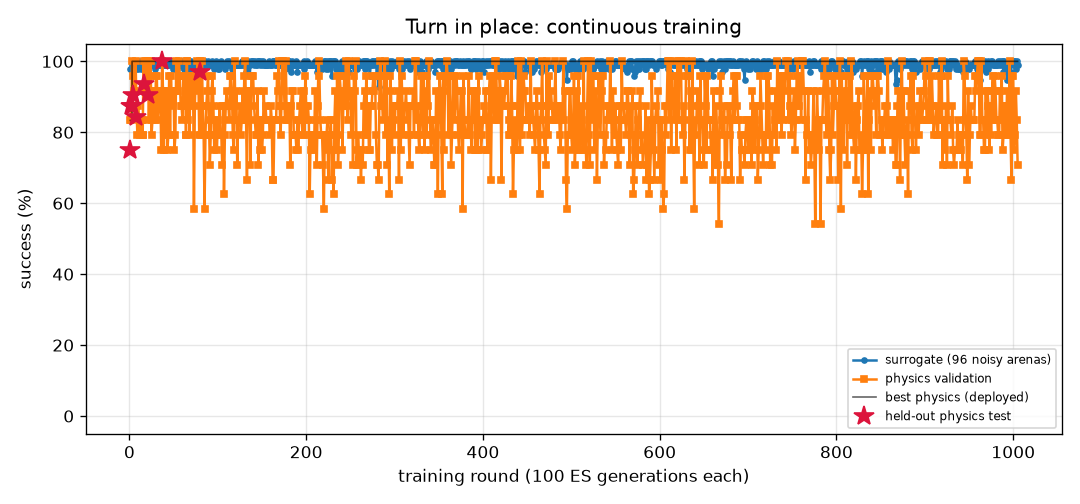
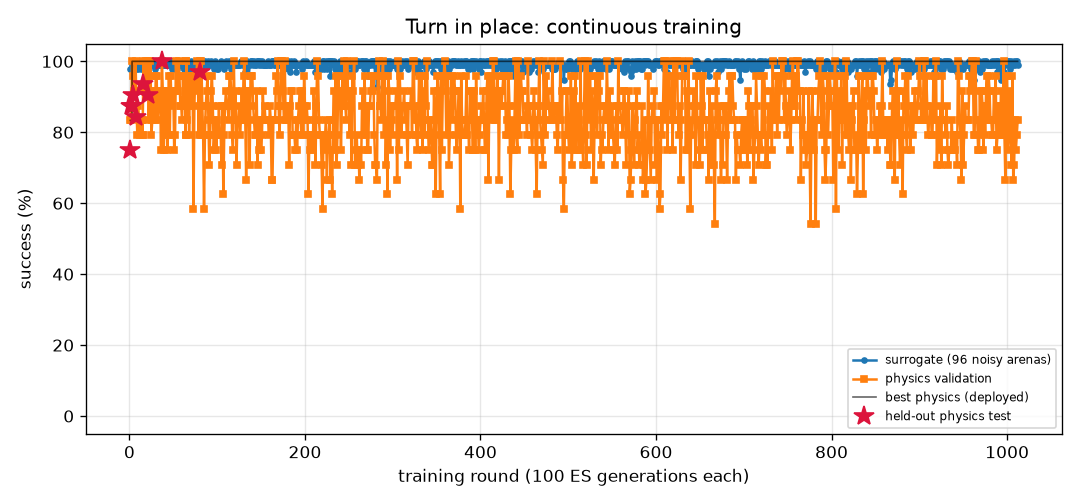
FlyLab: continuous training progress
- walk_forward: optimal, physics val 100% of 24, round 367
- turn: optimal, physics val 100% of 24, round 1012
- goto: optimal, physics val 100% of 24, round 287
- odor_seek: optimal, physics val 100% of 24, round 235
- odor_avoid: optimal, physics val 100% of 24, round 892
- light_seek: optimal, physics val 100% of 24, round 487
- light_avoid: optimal, physics val 100% of 24, round 620

diff --git a/projects/09_flylab/training/turn/REPORT.md b/projects/09_flylab/training/turn/REPORT.md
@@ -1,14 +1,14 @@
 # Turn in place (`turn`) — training report
 
-*Auto-generated by `train_brains.py`, last updated 2026-11-11T23:51:56.*
+*Auto-generated by `train_brains.py`, last updated 2026-11-12T19:09:57.*
 
 ![curve](curve.png)
 
 | | |
 |---|---|
-| rounds | 1005 |
-| ES generations | 100500 |
-| physics runs | 24366 |
+| rounds | 1012 |
+| ES generations | 101200 |
+| physics runs | 24534 |
 | status | **optimal** |
 | best brain | round 80: physics validation **100%** on 24 arenas, surrogate 100% |
 | held-out physics test | **97%** on 32 unseen arenas (95% CI 84%-99%) (errors: [1.6, 3.3, 6.3, 3.7, 1.1, 0.4, 2.4, 2.9, 0.1, 2.6, 0.5, 2.7, 1.5, 3.1, 4.5, 0.2, 0.5, 1.1, 2.0, 4.4, 2.8, 3.2, 0.3, 2.2, 0.5, 3.0, 0.3, 5.4, 0.4, 1.0, 4.7, 10.7]) |
@@ -17,13 +17,6 @@ Physics error per arena: deg from target heading (< 20 = success).
 
 | round | level | gens | sigma | surrogate | physics val | val errors | test | note |
 |---:|---:|---:|---:|---:|---:|---|---:|---|
-| 966 | 3 | 96600 | 0.025 | 99% | 83% | [0.2, 0.2, 5.4, 0.5, 2.7, 2.5, 6.5, 9.6, 9.0, 4.2, 5.9, 2.1, 0.9, 0.9, 6.0, 2.3, 2.1, 2.0, 2.4, 4.0, 2.2, 1.5, 7.3, 1.3] |  |  |
-| 967 | 3 | 96700 | 0.025 | 98% | 75% | [5.6, 5.4, 15.8, 0.2, 4.9, 6.0, 9.1, 4.9, 8.1, 2.3, 6.0, 2.5, 0.9, 1.1, 7.3, 4.4, 2.4, 5.8, 5.0, 4.3, 0.9, 1.6, 8.2, 7.3] |  |  |
-| 968 | 3 | 96800 | 0.025 | 100% | 75% | [4.5, 6.8, 5.3, 0.4, 14.2, 3.7, 7.5, 10.1, 7.4, 3.5, 7.2, 3.1, 2.3, 0.7, 6.9, 3.9, 3.2, 4.3, 3.8, 4.3, 2.2, 4.2, 8.2, 6.9] |  | restart from best |
-| 969 | 3 | 96900 | 0.024 | 97% | 92% | [4.2, 5.8, 2.4, 3.7, 5.0, 0.8, 2.7, 6.6, 4.7, 0.8, 2.9, 0.8, 1.7, 3.7, 3.1, 1.1, 0.6, 0.0, 1.2, 1.0, 5.2, 0.1, 4.3, 4.0] |  |  |
-| 970 | 3 | 97000 | 0.026 | 99% | 79% | [4.9, 3.7, 4.7, 2.1, 0.2, 3.0, 6.9, 2.4, 5.8, 0.1, 4.9, 0.2, 1.6, 1.0, 5.7, 2.9, 0.3, 3.8, 2.8, 2.7, 4.9, 0.3, 5.2, 8.5] |  |  |
-| 971 | 3 | 97100 | 0.025 | 98% | 92% | [0.2, 9.1, 13.2, 1.1, 3.7, 1.4, 4.8, 1.0, 4.2, 0.2, 4.8, 0.6, 3.1, 3.0, 3.2, 0.3, 0.5, 1.6, 0.4, 0.1, 6.9, 4.5, 3.3, 4.2] |  |  |
-| 972 | 3 | 97200 | 0.025 | 100% | 88% | [1.6, 2.3, 3.8, 3.9, 2.6, 0.1, 6.5, 1.0, 3.7, 0.6, 5.8, 0.3, 1.2, 3.6, 5.5, 1.2, 0.1, 1.7, 1.3, 1.0, 3.8, 0.0, 6.8, 6.5] |  | restart from best |
 | 973 | 3 | 97300 | 0.024 | 99% | 75% | [0.7, 6.7, 1.6, 1.3, 3.0, 3.9, 7.2, 11.6, 8.6, 1.7, 6.0, 1.8, 2.4, 0.6, 6.5, 4.4, 2.4, 6.4, 5.7, 2.8, 4.3, 3.1, 7.3, 10.4] |  |  |
 | 974 | 3 | 97400 | 0.025 | 99% | 88% | [7.1, 10.5, 8.6, 5.0, 2.6, 5.3, 2.6, 2.8, 4.0, 2.6, 1.7, 2.8, 2.3, 3.0, 2.1, 1.9, 3.0, 3.0, 1.7, 2.1, 7.7, 1.3, 1.6, 2.8] |  |  |
 | 975 | 3 | 97500 | 0.025 | 100% | 79% | [5.0, 1.4, 3.2, 1.9, 0.2, 0.5, 4.3, 6.1, 7.0, 1.5, 5.3, 1.5, 0.2, 1.3, 4.5, 2.8, 1.5, 2.3, 3.2, 2.1, 5.9, 1.2, 5.6, 2.5] |  |  |
@@ -57,3 +50,10 @@ Physics error per arena: deg from target heading (< 20 = success).
 | 1003 | 3 | 100300 | 0.024 | 98% | 92% | [1.9, 3.6, 1.0, 2.0, 1.0, 0.2, 5.3, 6.4, 6.1, 0.5, 4.8, 1.2, 1.1, 0.8, 3.5, 2.5, 1.0, 0.7, 4.4, 0.9, 1.8, 2.8, 6.9, 4.5] |  |  |
 | 1004 | 3 | 100400 | 0.025 | 100% | 83% | [0.8, 2.1, 0.9, 1.3, 0.3, 1.7, 6.8, 9.3, 4.9, 14.5, 5.2, 1.7, 1.6, 1.4, 6.0, 1.6, 2.3, 3.4, 1.6, 2.0, 2.9, 2.1, 4.8, 7.8] |  | restart from best |
 | 1005 | 3 | 100500 | 0.024 | 99% | 71% | [5.0, 2.5, 2.2, 2.3, 1.8, 0.0, 5.9, 5.3, 7.4, 0.6, 5.9, 1.1, 0.1, 0.0, 5.5, 1.7, 0.7, 1.6, 0.8, 0.5, 2.2, 1.5, 8.0, 6.6] |  |  |
+| 1006 | 3 | 100600 | 0.025 | 99% | 96% | [2.0, 7.9, 3.7, 3.5, 5.3, 3.5, 0.2, 4.7, 4.0, 1.8, 3.9, 0.2, 1.3, 3.6, 3.1, 0.9, 0.6, 0.8, 2.2, 2.1, 3.6, 1.1, 4.3, 1.4] |  |  |
+| 1007 | 3 | 100700 | 0.025 | 99% | 67% | [10.0, 9.8, 3.7, 0.9, 3.3, 114.9, 3.0, 2.9, 2.1, 0.6, 2.7, 2.9, 2.0, 4.8, 3.1, 0.0, 3.4, 0.3, 2.5, 1.2, 5.4, 2.4, 4.6, 3.8] |  |  |
+| 1008 | 3 | 100800 | 0.025 | 100% | 71% | [5.7, 2.9, 6.2, 1.1, 2.5, 123.4, 7.4, 9.7, 7.8, 0.6, 5.5, 1.2, 0.0, 0.9, 4.3, 3.7, 1.1, 2.0, 2.9, 2.3, 4.3, 1.7, 8.0, 6.5] |  | restart from best |
+| 1009 | 3 | 100900 | 0.024 | 99% | 83% | [3.5, 2.2, 3.4, 0.8, 4.8, 2.3, 6.8, 5.3, 6.4, 14.8, 5.0, 0.7, 0.0, 2.1, 4.7, 6.8, 1.2, 3.5, 7.0, 1.5, 4.5, 4.4, 1.4, 7.4] |  |  |
+| 1010 | 3 | 101000 | 0.025 | 100% | 75% | [5.9, 6.7, 1.3, 2.2, 5.1, 4.5, 3.8, 1.4, 2.9, 0.6, 5.4, 1.9, 0.9, 1.1, 4.3, 0.1, 1.4, 0.8, 0.4, 0.7, 6.6, 1.5, 4.9, 1.1] |  |  |
+| 1011 | 3 | 101100 | 0.024 | 100% | 79% | [6.0, 3.4, 1.9, 2.5, 4.5, 4.7, 4.8, 3.7, 5.4, 14.5, 4.8, 2.0, 1.5, 1.2, 4.5, 1.2, 1.8, 3.2, 0.9, 0.4, 6.5, 0.2, 4.2, 5.5] |  |  |
+| 1012 | 3 | 101200 | 0.024 | 99% | 83% | [8.3, 2.5, 5.3, 0.7, 13.8, 1.0, 7.5, 9.9, 9.3, 1.2, 5.3, 1.5, 0.5, 1.7, 5.7, 1.8, 1.2, 3.8, 1.5, 1.4, 4.5, 2.4, 6.5, 8.5] |  | restart from best |

diff --git a/projects/09_flylab/training/light_avoid/REPORT.md b/projects/09_flylab/training/light_avoid/REPORT.md
@@ -1,14 +1,14 @@
 # Hide from light (`light_avoid`) — training report
 
-*Auto-generated by `train_brains.py`, last updated 2026-11-12T00:12:58.*
+*Auto-generated by `train_brains.py`, last updated 2026-11-12T00:42:23.*
 
 ![curve](curve.png)
 
 | | |
 |---|---|
-| rounds | 619 |
-| ES generations | 61900 |
-| physics runs | 15128 |
+| rounds | 620 |
+| ES generations | 62000 |
+| physics runs | 15152 |
 | status | **optimal** |
 | best brain | round 159: physics validation **100%** on 24 arenas, surrogate 100% |
 | held-out physics test | **100%** on 32 unseen arenas (95% CI 89%-100%) (errors: [14.4, 56.1, 58.0, 57.9, 57.5, 14.0, 14.4, 56.6, 56.8, 13.3, 14.1, 56.6, 57.6, 13.1, 57.3, 55.9, 57.2, 55.0, 55.2, 53.9, 55.2, 12.4, 53.8, 53.7, 14.1, 13.7, 55.0, 57.8, 56.2, 13.1, 52.8, 56.5]) |
@@ -17,7 +17,6 @@ Physics error per arena: mm gained away from source (> 6 without first approachi
 
 | round | level | gens | sigma | surrogate | physics val | val errors | test | note |
 |---:|---:|---:|---:|---:|---:|---|---:|---|
-| 580 | 3 | 58000 | 0.024 | 99% | 100% | [34.2, 34.6, 35.9, 35.6, 36.4, 33.7, 31.4, 14.5, 35.9, 13.3, 36.9, 36.6, 14.4, 36.1, 33.5, 36.3, 14.2, 35.6, 35.0, 14.4, 36.2, 37.6, 31.8, 36.9] |  |  |
 | 581 | 3 | 58100 | 0.025 | 97% | 100% | [34.9, 40.9, 40.7, 37.3, 43.3, 39.6, 37.4, 14.5, 38.8, 13.4, 42.2, 43.8, 14.4, 42.4, 40.9, 8.8, 14.2, 42.5, 41.7, 14.4, 8.9, 42.5, 36.4, 41.9] |  |  |
 | 582 | 3 | 58200 | 0.026 | 94% | 96% | [6.2, 52.1, 51.8, 7.3, 51.7, 4.3, 50.3, 14.5, 51.0, 13.3, 49.5, 51.5, 14.4, 51.0, 52.0, 9.0, 14.2, 52.0, 52.4, 14.4, 8.7, 51.3, 50.0, 51.0] |  |  |
 | 583 | 3 | 58300 | 0.028 | 93% | 96% | [6.3, 55.7, 55.8, 7.3, 52.4, 4.6, 55.3, 14.5, 36.8, 13.3, 48.1, 52.1, 14.4, 50.2, 55.7, 9.0, 14.2, 53.4, 55.9, 14.4, 8.7, 49.9, 54.7, 51.0] |  | restart from best |
@@ -57,3 +56,4 @@ Physics error per arena: mm gained away from source (> 6 without first approachi
 | 617 | 3 | 61700 | 0.024 | 100% | 100% | [37.5, 36.6, 36.8, 37.8, 34.2, 37.2, 37.2, 14.5, 12.7, 13.4, 37.9, 32.8, 14.4, 37.6, 37.0, 37.7, 14.2, 34.0, 36.4, 14.4, 36.5, 37.7, 36.2, 32.5] |  |  |
 | 618 | 3 | 61800 | 0.024 | 100% | 100% | [35.7, 35.6, 35.6, 36.1, 37.4, 36.4, 30.9, 14.5, 34.5, 13.5, 37.3, 36.9, 14.4, 37.3, 34.7, 36.4, 14.2, 36.8, 36.3, 14.4, 35.8, 36.7, 32.8, 37.2] |  |  |
 | 619 | 3 | 61900 | 0.024 | 100% | 100% | [50.8, 51.1, 51.1, 51.2, 46.4, 49.9, 51.6, 14.5, 41.3, 13.4, 49.2, 46.3, 14.4, 46.5, 51.1, 50.9, 14.2, 47.4, 50.7, 14.4, 50.6, 50.3, 51.8, 44.7] |  | restart from best |
+| 620 | 3 | 62000 | 0.024 | 100% | 100% | [43.2, 43.2, 42.4, 43.2, 45.4, 43.8, 40.9, 14.5, 42.0, 12.9, 45.6, 45.2, 14.4, 45.9, 42.9, 44.0, 14.2, 45.1, 43.3, 14.4, 41.8, 45.9, 42.0, 45.4] |  |  |

diff --git a/projects/09_flylab/training/TRAINING.md b/projects/09_flylab/training/TRAINING.md
@@ -1,15 +1,15 @@
 # FlyLab brains — continuous training log
 
-*Auto-generated by `train_brains.py`, last updated 2026-11-12T00:12:58.*
+*Auto-generated by `train_brains.py`, last updated 2026-11-12T19:09:57.*
 
 Every skill has its own brain and its own training process: surrogate ES rounds, physics validation in MuJoCo, keep-the-best selection, and a held-out physics test that is never used for selection. See each skill's report for its full round-by-round history. Mastery is progressive: passing a level (100% physics validation, >=95% surrogate) doubles the validation and test arena sets; a brain is **optimal** once it holds up at level 3 (>=95% of 24 validation arenas) AND scores >=90% on the 32 held-out test arenas. Test columns show 95% Wilson confidence intervals.
 
 | skill | rounds | ES generations | physics runs | surrogate | physics val | **physics test** | status |
 |---|---:|---:|---:|---:|---:|---:|---|
 | [Walk forward](walk_forward/REPORT.md) | 367 | 36700 | 8822 | 100% | 100% of 24 | 100% of 32 (CI 89-100%) | **optimal** |
-| [Turn in place](turn/REPORT.md) | 1005 | 100500 | 24366 | 100% | 100% of 24 | 97% of 32 (CI 84-99%) | **optimal** |
+| [Turn in place](turn/REPORT.md) | 1012 | 101200 | 24534 | 100% | 100% of 24 | 97% of 32 (CI 84-99%) | **optimal** |
 | [Go to a location](goto/REPORT.md) | 287 | 28700 | 6838 | 100% | 100% of 24 | 100% of 32 (CI 89-100%) | **optimal** |
 | [Find food by smell](odor_seek/REPORT.md) | 235 | 23500 | 5070 | 100% | 100% of 24 | 100% of 32 (CI 89-100%) | **optimal** |
 | [Escape a bad smell](odor_avoid/REPORT.md) | 892 | 89200 | 18714 | 97% | 100% of 24 | 97% of 32 (CI 84-99%) | **optimal** |
 | [Walk toward light](light_seek/REPORT.md) | 487 | 48700 | 8568 | 100% | 100% of 24 | 100% of 32 (CI 89-100%) | **optimal** |
-| [Hide from light](light_avoid/REPORT.md) | 619 | 61900 | 15128 | 100% | 100% of 24 | 100% of 32 (CI 89-100%) | **optimal** |
+| [Hide from light](light_avoid/REPORT.md) | 620 | 62000 | 15152 | 100% | 100% of 24 | 100% of 32 (CI 89-100%) | **optimal** |
